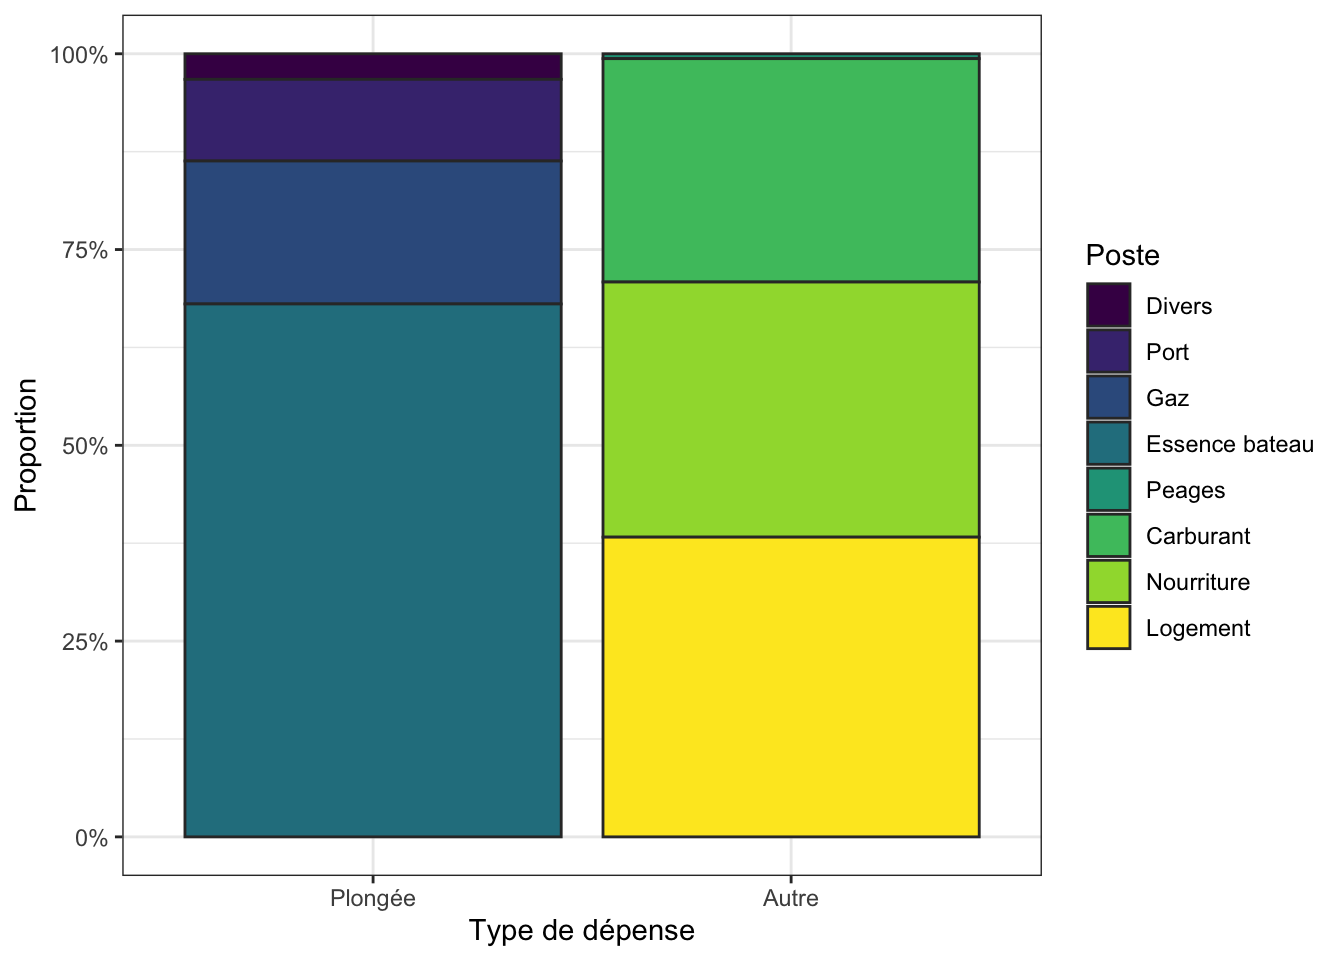
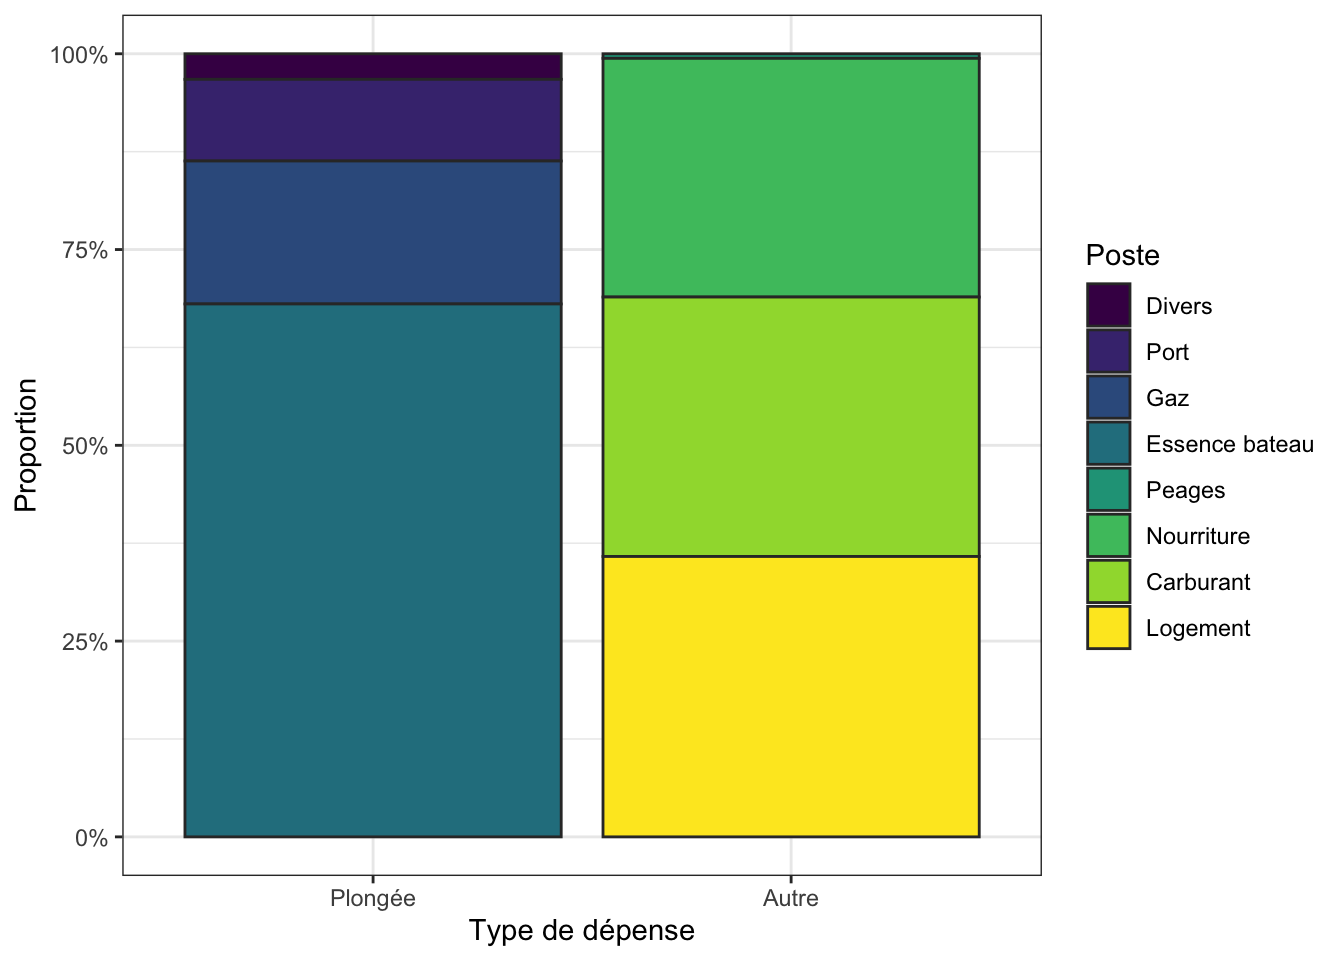
Fin comptes Lanildut

diff --git a/docs/Lanildut2025.html b/docs/Lanildut2025.html
@@ -328,7 +328,7 @@ ul.task-list li input[type="checkbox"] {
     <div>
     <div class="quarto-title-meta-heading">Dernière Mise à jour</div>
     <div class="quarto-title-meta-contents">
-      <p class="date">samedi 9 août 2025</p>
+      <p class="date">lundi 11 août 2025</p>
     </div>
   </div>
   
@@ -839,11 +839,11 @@ Table&nbsp;4: Dépenses hors plongées engagées par les participants à la sort
 <td style="text-align: right;">Baptiste</td>
 <td style="text-align: right;">0€</td>
 <td style="text-align: right;">0.00€</td>
-<td style="text-align: right;">178.53€</td>
+<td style="text-align: right;">295.53€</td>
 <td style="text-align: right;">0.00€</td>
 <td style="text-align: right;">0€</td>
 <td style="text-align: right;">0€</td>
-<td style="text-align: right;">178.53€</td>
+<td style="text-align: right;">295.53€</td>
 </tr>
 <tr class="even">
 <td style="text-align: right;">Benoît</td>
@@ -859,11 +859,11 @@ Table&nbsp;4: Dépenses hors plongées engagées par les participants à la sort
 <td style="text-align: right;">Calude</td>
 <td style="text-align: right;">300€</td>
 <td style="text-align: right;">2.30€</td>
-<td style="text-align: right;">0.00€</td>
+<td style="text-align: right;">117.00€</td>
 <td style="text-align: right;">0.00€</td>
 <td style="text-align: right;">0€</td>
 <td style="text-align: right;">0€</td>
-<td style="text-align: right;">302.30€</td>
+<td style="text-align: right;">419.30€</td>
 </tr>
 <tr class="even">
 <td style="text-align: right;">Carole</td>
@@ -939,11 +939,11 @@ Table&nbsp;4: Dépenses hors plongées engagées par les participants à la sort
 <td style="text-align: right; font-weight: bold;">Total</td>
 <td style="text-align: right; font-weight: bold;">1,300€</td>
 <td style="text-align: right; font-weight: bold;">1,106.59€</td>
-<td style="text-align: right; font-weight: bold;">968.79€</td>
+<td style="text-align: right; font-weight: bold;">1,202.79€</td>
 <td style="text-align: right; font-weight: bold;">21.20€</td>
 <td style="text-align: right; font-weight: bold;">0€</td>
 <td style="text-align: right; font-weight: bold;">0€</td>
-<td style="text-align: right; font-weight: bold;">3,396.58€</td>
+<td style="text-align: right; font-weight: bold;">3,630.58€</td>
 </tr>
 </tbody>
 </table>
@@ -990,7 +990,7 @@ Table&nbsp;5: Nombre de nuitées et de repas
 <td style="text-align: right;">14</td>
 <td style="text-align: right;">10</td>
 <td style="text-align: right;">7</td>
-<td style="text-align: right;">5</td>
+<td style="text-align: right;">7</td>
 </tr>
 <tr class="even">
 <td style="text-align: left;">Repas</td>
@@ -1003,7 +1003,7 @@ Table&nbsp;5: Nombre de nuitées et de repas
 <td style="text-align: right;">42</td>
 <td style="text-align: right;">30</td>
 <td style="text-align: right;">21</td>
-<td style="text-align: right;">15</td>
+<td style="text-align: right;">21</td>
 </tr>
 </tbody>
 </table>
@@ -1034,9 +1034,9 @@ Table&nbsp;6: Coûts unitaires par personne
 </thead>
 <tbody>
 <tr class="odd">
-<td style="text-align: right;">12.75€</td>
-<td style="text-align: right;">3.62€</td>
-<td style="text-align: right;">74.52€</td>
+<td style="text-align: right;">12.50€</td>
+<td style="text-align: right;">3.55€</td>
+<td style="text-align: right;">92.52€</td>
 <td style="text-align: right;">1.63€</td>
 </tr>
 </tbody>
@@ -1092,42 +1092,42 @@ Table&nbsp;7: Bilan des coûts par plongeur et par poste
 </tr>
 <tr class="even">
 <td style="text-align: right;">Logement</td>
-<td style="text-align: right;">254.90€</td>
-<td style="text-align: right;">127.45€</td>
-<td style="text-align: right;">127.45€</td>
-<td style="text-align: right;">127.45€</td>
-<td style="text-align: right;">76.47€</td>
-<td style="text-align: right;">127.45€</td>
-<td style="text-align: right;">178.43€</td>
-<td style="text-align: right;">127.45€</td>
-<td style="text-align: right;">89.22€</td>
-<td style="text-align: right;">63.73€</td>
+<td style="text-align: right;">250.00€</td>
+<td style="text-align: right;">125.00€</td>
+<td style="text-align: right;">125.00€</td>
+<td style="text-align: right;">125.00€</td>
+<td style="text-align: right;">75.00€</td>
+<td style="text-align: right;">125.00€</td>
+<td style="text-align: right;">175.00€</td>
+<td style="text-align: right;">125.00€</td>
+<td style="text-align: right;">87.50€</td>
+<td style="text-align: right;">87.50€</td>
 </tr>
 <tr class="odd">
 <td style="text-align: right;">Nourriture</td>
-<td style="text-align: right;">216.98€</td>
-<td style="text-align: right;">108.49€</td>
-<td style="text-align: right;">108.49€</td>
-<td style="text-align: right;">108.49€</td>
-<td style="text-align: right;">65.09€</td>
-<td style="text-align: right;">108.49€</td>
-<td style="text-align: right;">151.88€</td>
-<td style="text-align: right;">108.49€</td>
-<td style="text-align: right;">75.94€</td>
-<td style="text-align: right;">54.24€</td>
+<td style="text-align: right;">212.81€</td>
+<td style="text-align: right;">106.40€</td>
+<td style="text-align: right;">106.40€</td>
+<td style="text-align: right;">106.40€</td>
+<td style="text-align: right;">63.84€</td>
+<td style="text-align: right;">106.40€</td>
+<td style="text-align: right;">148.96€</td>
+<td style="text-align: right;">106.40€</td>
+<td style="text-align: right;">74.48€</td>
+<td style="text-align: right;">74.48€</td>
 </tr>
 <tr class="even">
 <td style="text-align: right;">Carburant</td>
-<td style="text-align: right;">149.04€</td>
-<td style="text-align: right;">74.52€</td>
-<td style="text-align: right;">74.52€</td>
-<td style="text-align: right;">74.52€</td>
-<td style="text-align: right;">149.04€</td>
-<td style="text-align: right;">74.52€</td>
-<td style="text-align: right;">149.04€</td>
-<td style="text-align: right;">74.52€</td>
-<td style="text-align: right;">74.52€</td>
-<td style="text-align: right;">74.52€</td>
+<td style="text-align: right;">185.04€</td>
+<td style="text-align: right;">92.52€</td>
+<td style="text-align: right;">92.52€</td>
+<td style="text-align: right;">92.52€</td>
+<td style="text-align: right;">185.04€</td>
+<td style="text-align: right;">92.52€</td>
+<td style="text-align: right;">185.04€</td>
+<td style="text-align: right;">92.52€</td>
+<td style="text-align: right;">92.52€</td>
+<td style="text-align: right;">92.52€</td>
 </tr>
 <tr class="odd">
 <td style="text-align: right; border-bottom: 1px solid;">Peage</td>
@@ -1144,16 +1144,16 @@ Table&nbsp;7: Bilan des coûts par plongeur et par poste
 </tr>
 <tr class="even">
 <td style="text-align: right; font-weight: bold;">Total</td>
-<td style="text-align: right; font-weight: bold;">810.91€</td>
-<td style="text-align: right; font-weight: bold;">545.49€</td>
-<td style="text-align: right; font-weight: bold;">483.25€</td>
-<td style="text-align: right; font-weight: bold;">514.37€</td>
-<td style="text-align: right; font-weight: bold;">433.91€</td>
-<td style="text-align: right; font-weight: bold;">514.37€</td>
-<td style="text-align: right; font-weight: bold;">591.54€</td>
-<td style="text-align: right; font-weight: bold;">529.93€</td>
-<td style="text-align: right; font-weight: bold;">241.31€</td>
-<td style="text-align: right; font-weight: bold;">397.12€</td>
+<td style="text-align: right; font-weight: bold;">837.83€</td>
+<td style="text-align: right; font-weight: bold;">558.96€</td>
+<td style="text-align: right; font-weight: bold;">496.72€</td>
+<td style="text-align: right; font-weight: bold;">527.84€</td>
+<td style="text-align: right; font-weight: bold;">467.19€</td>
+<td style="text-align: right; font-weight: bold;">527.84€</td>
+<td style="text-align: right; font-weight: bold;">621.19€</td>
+<td style="text-align: right; font-weight: bold;">543.40€</td>
+<td style="text-align: right; font-weight: bold;">256.14€</td>
+<td style="text-align: right; font-weight: bold;">459.14€</td>
 </tr>
 </tbody>
 </table>
@@ -1179,52 +1179,52 @@ Table&nbsp;7: Bilan des coûts par plongeur et par poste
 <tr class="odd">
 <td style="text-align: right;">Baptiste</td>
 <td style="text-align: right;">rembourse à l'AP</td>
-<td style="text-align: right;">219.00€</td>
+<td style="text-align: right;">128.92€</td>
 </tr>
 <tr class="even">
 <td style="text-align: right;">Benoît</td>
 <td style="text-align: right;">rembourse à l'AP</td>
-<td style="text-align: right;">11.21€</td>
+<td style="text-align: right;">24.68€</td>
 </tr>
 <tr class="odd">
 <td style="text-align: right;">Béatrice</td>
 <td style="text-align: right;">rembourse à l'AP</td>
-<td style="text-align: right;">95.33€</td>
+<td style="text-align: right;">110.16€</td>
 </tr>
 <tr class="even">
 <td style="text-align: right;">Jérôme</td>
 <td style="text-align: right;">rembourse à l'AP</td>
-<td style="text-align: right;">274.71€</td>
+<td style="text-align: right;">307.99€</td>
 </tr>
 <tr class="odd">
 <td style="text-align: right;">Pierre</td>
 <td style="text-align: right;">rembourse à l'AP</td>
-<td style="text-align: right;">270.19€</td>
+<td style="text-align: right;">299.84€</td>
 </tr>
 <tr class="even">
 <td style="text-align: right;">Thomas</td>
 <td style="text-align: right;">rembourse à l'AP</td>
-<td style="text-align: right;">199.23€</td>
+<td style="text-align: right;">212.70€</td>
 </tr>
 <tr class="odd">
 <td style="text-align: right;">Yannick</td>
 <td style="text-align: right;">rembourse à l'AP</td>
-<td style="text-align: right;">397.12€</td>
+<td style="text-align: right;">459.14€</td>
 </tr>
 <tr class="even">
 <td style="text-align: right;">Calude</td>
 <td style="text-align: right;">se fait rembourser par l'AP</td>
-<td style="text-align: right;">127.22€</td>
+<td style="text-align: right;">230.75€</td>
 </tr>
 <tr class="odd">
 <td style="text-align: right;">Carole</td>
 <td style="text-align: right;">se fait rembourser par l'AP</td>
-<td style="text-align: right;">722.27€</td>
+<td style="text-align: right;">708.80€</td>
 </tr>
 <tr class="even">
 <td style="text-align: right;">Nathalie</td>
 <td style="text-align: right;">se fait rembourser par l'AP</td>
-<td style="text-align: right;">220.34€</td>
+<td style="text-align: right;">206.87€</td>
 </tr>
 </tbody>
 </table>
@@ -1237,15 +1237,15 @@ Table&nbsp;7: Bilan des coûts par plongeur et par poste
 <h2 class="anchored" data-anchor-id="bénéfices-essence-et-heures">Bénéfices, essence et heures</h2>
 <p>La majoration de 3€ de chaque plongée ainsi que les plongées des invités (si la plongée des membres coûte moins de 23€) permettent de faire des (petits) bénéfices. Ils s’élèvent ici à <strong>396.98€</strong>.</p>
 <p>Pour finir, nous avons parcouru 245 milles nautiques. Ça veut dire que nous consommons en moyenne 2.19 litres par mille, soit 1.18 litres au kilomètre, soit la bagatelle de 118 litres au 100 kilomètres. La plongée est un sport écologique !</p>
-<p>Le moteur a tourné 30.5 heures et 565.16 litres de sans plomb ont été mis dans le réservoir. D’après la console, 536.6 litres ont été consommés soit une consommation moyenne de 17.59 litres à l’heure. Il devrait donc rester environ 28.56 litres dans le réservoir.</p>
-<!-- Thomas en a sorti environ 70 litres, soit -41.44 litres de moins que prévu. Cela représente une erreur d'estimation de consommation de -7.33%.  -->
+<p>Le moteur a tourné 30.5 heures et 573.16 litres de sans plomb ont été mis dans le réservoir. D’après la console, 536.6 litres ont été consommés soit une consommation moyenne de 17.59 litres à l’heure. Il devrait donc rester environ 36.56 litres dans le réservoir et Thomas en a sorti environ 30, soit 6.56 litres de moins que prévu. Cela représente une erreur d’estimation de consommation de 1.14%.</p>
 <p>Les boudins ont enfin été nettoyés : merci Mistral Plaisance !</p>
 </section>
 <section id="pour-mémoire" class="level2">
 <h2 class="anchored" data-anchor-id="pour-mémoire">Pour mémoire</h2>
-<p>Location au milieu des champs, comme en 2014, 2017 et 2023. Toujours 4 places en bas (1 lit double et 2 lits simples, dans 2 chambres), et 5 places en haut (un lit double dans une chambre, 3 lits simples dans l’autre), et il y a de la place pour 2 ou 3 matelas si besoin. La maison est un peu vieillotte, mais absolument parfaite pour nous (literie un peu molle quand même !). On peut gonfler dans le jardin, il y a de la place pour la remorque bateau et tous les véhicules, et le garage/grange est parfait pour stocker le matos. Un WC en haut et un en bas, une seule douche. Tarif imbattable.</p>
-<p>Première plongée le mercredi après-midi car la flotte du tour du Finistère à la voile monopolisait le port dès le mardi midi. En dehors, de ça, aucune plongée annulée : 2 plongées par jour, tous les jours, sauf sur 2 jours au moment de la bascule (petits coef en plein milieu de journée). Les épaves notables du coin ont toutes été plongées au moins une fois, y compris le Drummond, l’Européan et le Nelson. Et une nouvelle épave a été faite sous la vigie du Stiff : le Yembo, jolie épave très cassée dans le fond d’un canyon.</p>
-<p>Sur le plan pratique, le point du Taboga a été corrigé après plusieurs plongées sable/roche. Au final, le bon point, près des chaudières, était celui du bouquin de Job. Même manip sur l’European : On a repris le bon point au niveau des chaudières : ça devrait rouler sans problème pour la prochaine fois. Pour le Yembo, le premier des 2 points tombe pile sur l’avant de l’épave, dans la zone des 40 mètres. Toujours sur les aspects pratiques, il n’y a presque pas de courant sur l’Eildon, le Yembo et l’European (en mortes eaux !). Impossible en revanche de plonger à marée haute sur le Nelson : viser une heure avant et maximum une heure après la BM.</p>
+<p>Location au milieu des champs, comme en 2014, 2017 et 2023. Toujours 4 places en bas (1 lit double et 2 lits simples, dans 2 chambres), et 5 places en haut (un lit double dans une chambre, 3 lits simples dans l’autre), et il y a de la place pour 2 ou 3 matelas si besoin. La maison est un peu vieillotte, mais absolument parfaite pour nous (literie un peu molle quand même !). On peut gonfler dans le jardin, il y a de la place pour la remorque bateau et tous les véhicules, et le garage/grange est parfait pour stocker le matos. Un WC en haut et un en bas, une seule douche. Tarif imbattable. Pas de mouches cette année car il y avait du maïs dans le champ, mais les génisses reviendront prochainement…</p>
+<p>Première plongée le mercredi après-midi car la flotte du tour du Finistère à la voile monopolisait le port dès le mardi midi. En dehors, de ça, aucune plongée annulée : 2 plongées par jour, tous les jours, sauf sur 2 jours au moment de la bascule (petits coef en plein milieu de journée). Les épaves notables du coin ont toutes été plongées au moins une fois, y compris le Drummond, l’Européan et le Nelson. Et une nouvelle épave a été faite sous la vigie du Stiff : le Yembo, jolie épave très cassée dans le fond d’un canyon, entre -25 et -45.</p>
+<p>Sur le plan pratique, le point du Taboga a été corrigé après plusieurs plongées sable/roche. Au final, le bon point, près des chaudières, était celui du bouquin de Job. Même manip sur l’European : On a repris le bon point au niveau des chaudières : ça devrait rouler sans problème pour la prochaine fois. Pour le Yembo, le premier des 2 points tombe pile sur l’avant de l’épave, dans la zone des 40 mètres. Toujours sur les aspects pratiques, il n’y a presque pas de courant sur l’Eildon, le Yembo (y compris près de 2h après la PM) et l’European (en mortes eaux !). Impossible en revanche de plonger à marée haute sur le Nelson : viser une heure avant et maximum une heure après la BM.</p>
+<p>Enfin, au départ de Lanildut, le Taboga, le Lake Borgne, Le Saracen et le Columbian sont à moins de 6 miles. L’Eildon est à environ 7 miles, Le Nelson et le Yembo sont à environ 10 miles, le Drummond à 12 et l’European à 15 miles.</p>
 </section>
 <section id="quelques-graphiques" class="level2">
 <h2 class="anchored" data-anchor-id="quelques-graphiques">Quelques graphiques</h2>
